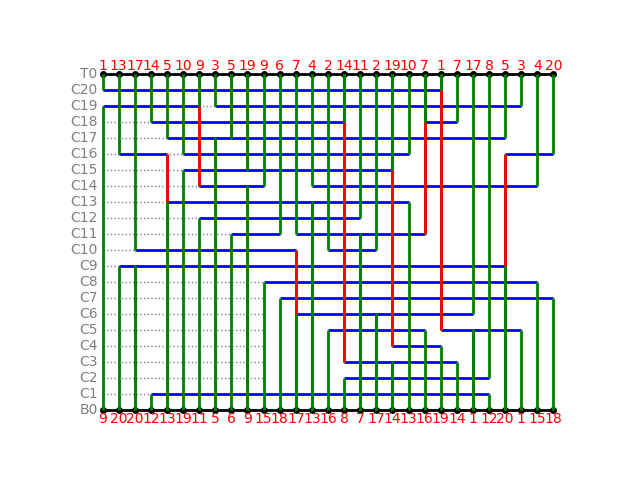
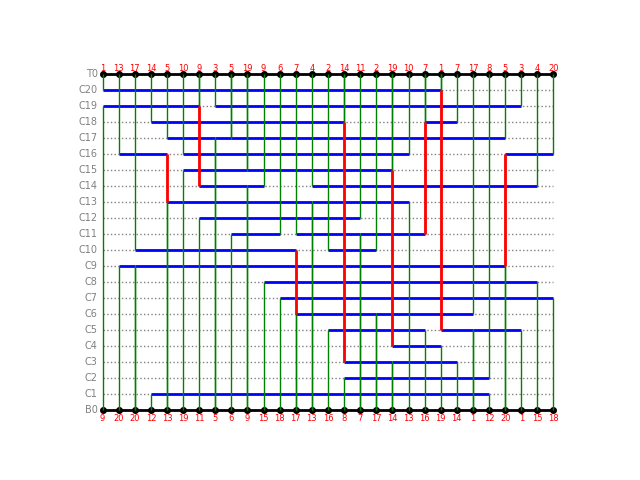
Fix plotter

diff --git a/routing.py b/routing.py
@@ -18,6 +18,7 @@ global_data = {
     'net_list': [],
     'topboundaryID': [],
     'bottomboundaryID': [],
+    'max_length': 0
 }
 net_data = {}
 y_values_lookup = {}
@@ -43,6 +44,10 @@ def parse_BoundaryList(f):
         line = line.strip()
         if line[0] == 'T' or line[0] == 'B':
             parts = line.split()
+            start, end = int(parts[1]), int(parts[2])
+            if end > global_data['max_length']:
+                global_data['max_length'] = end
+
             global_data['boundary_list'].append(Track(parts[0], int(parts[1]), int(parts[2])))
         elif i == num_lines - 2:
             global_data['topboundaryID'] = line.split()
@@ -74,18 +79,18 @@ def parse_NetList(f):
 
 def plot(number):
     for i, track in enumerate(global_data['boundary_list']):
-        plt.text(x=-0.3, y=i, s=track.n , va='center', ha='right', color='gray')
-        plt.hlines(y=i, xmin=0, xmax=10, colors='gray', linestyles=':', lw=1)
+        plt.text(x=-0.3, y=i, s=track.n , va='center', ha='right', color='gray', size=7)
+        plt.hlines(y=i, xmin=0, xmax=global_data['max_length'], colors='gray', linestyles=':', lw=1)
         y_values_lookup[track.n] = i
             
         if track.n[0] == 'T' or track.n[0] == 'B':
             boundaryIDs = global_data['topboundaryID'] if track.n[0] == 'T' else global_data['bottomboundaryID']
             text_va = 'bottom' if track.n[0] == 'T' else 'top'
-            text_offset = 0.1 if track.n[0] == 'T' else - 0.1
+            text_offset = 0.1 if track.n[0] == 'T' else - 0.2
             plt.hlines(y=i, xmin=track.s, xmax=track.e, colors='black', lw=2)
             for x in range(track.s, track.e + 1): 
                 plt.plot(x, i, marker='o', color='black', markersize=4)
-                plt.text(x, i + text_offset, str(boundaryIDs[x]), color='red', ha='center', va=text_va)
+                plt.text(x, i + text_offset, str(boundaryIDs[x]), color='red', ha='center', va=text_va, size=6)
     
     for i, track in enumerate(global_data['net_list']):
         if hasattr(track, 'n') and (track.n[0] == 'C'):
@@ -101,12 +106,12 @@ def plot(number):
                         dynamic_offset = calculate_dynamic_offset(x, net, y_values_lookup[track.n])
                         ymax = y_values_lookup[track.n]
                         ymin = y_values_lookup[track.n] - dynamic_offset
-                        plt.vlines(x=x, ymin=ymin, ymax=ymax, colors='green', lw=2)
+                        plt.vlines(x=x, ymin=ymin, ymax=ymax, colors='green', lw=1)
                     elif net == global_data['topboundaryID'][x]:
                         dynamic_offset = calculate_dynamic_offset(x, net, y_values_lookup[track.n])
                         ymax = y_values_lookup[track.n] + dynamic_offset
                         ymin = y_values_lookup[track.n]
-                        plt.vlines(x=x, ymin=ymin, ymax=ymax, colors='green', lw=2)
+                        plt.vlines(x=x, ymin=ymin, ymax=ymax, colors='green', lw=1)
   
         for dogleg in net_data[net]['doglegs']:
             for track in net_data[net]['tracks']:
